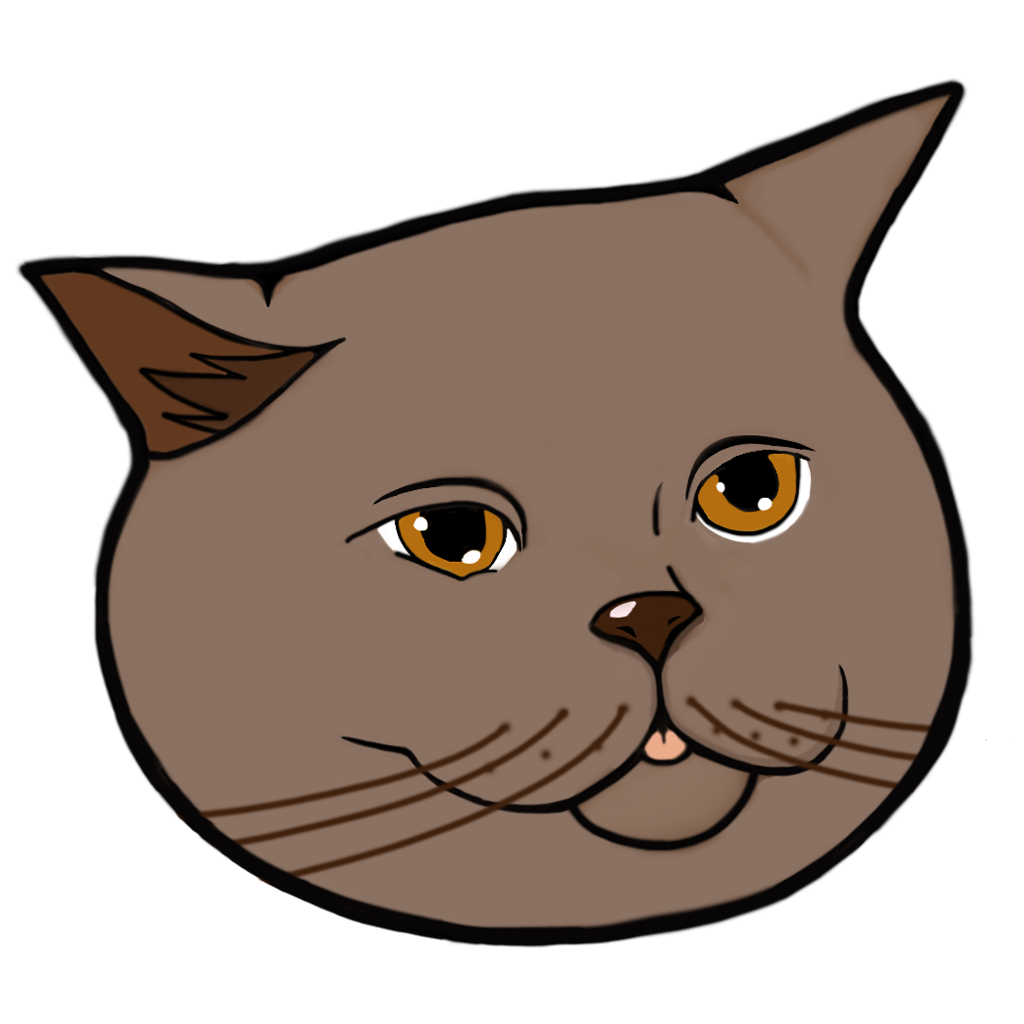
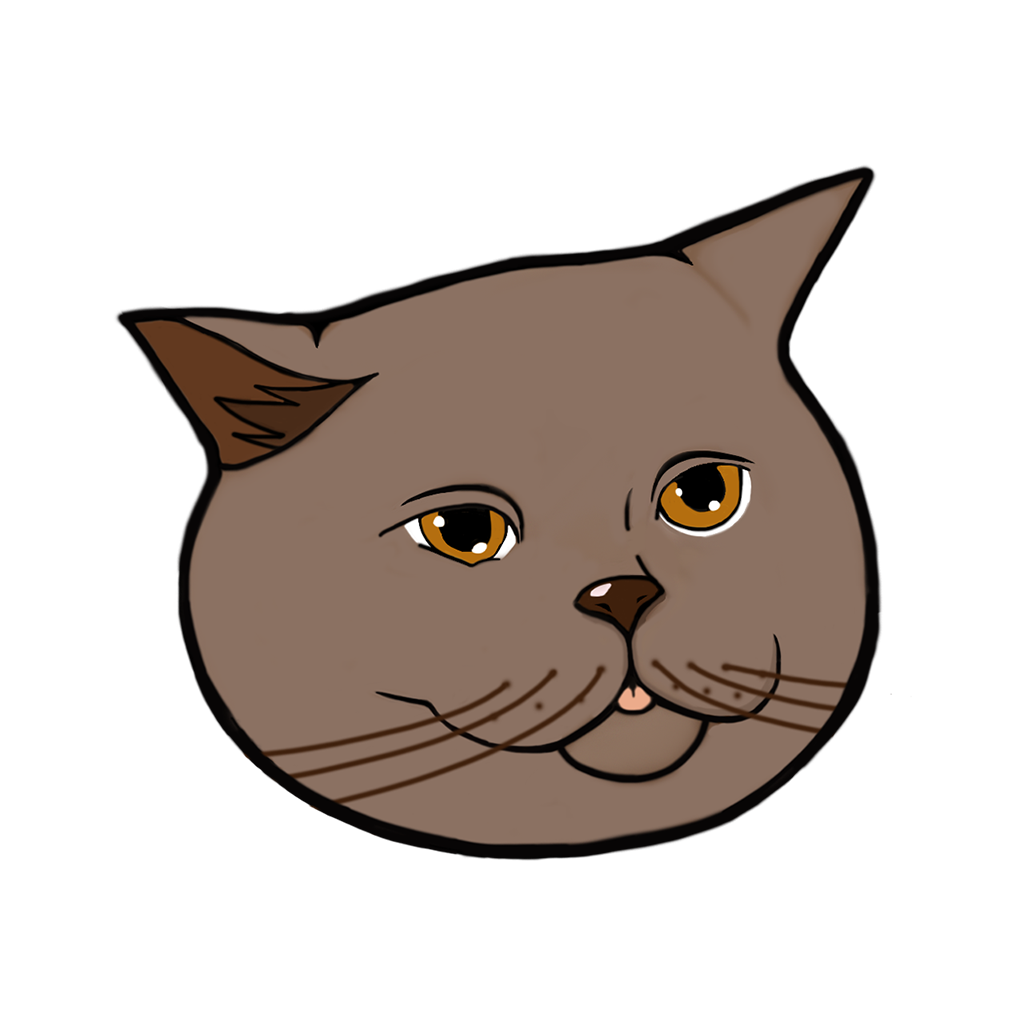
new hatss

diff --git a/script.js b/script.js
@@ -172,12 +172,13 @@ document.addEventListener('DOMContentLoaded', function () {
     // Resim URL'leri
     const images = {
         base: 'https://raw.githubusercontent.com/TimurOzer/PashketsWebsite/main/img/cat.png', // Kedi resmi
-        hats: [
-            'https://raw.githubusercontent.com/TimurOzer/PashketsWebsite/main/img/hat1.png',
-            'https://raw.githubusercontent.com/TimurOzer/PashketsWebsite/main/img/hat2.png',
-            'https://raw.githubusercontent.com/TimurOzer/PashketsWebsite/main/img/hat3.png'
-        ]
+        hats: [] // 38 şapka URL'sini buraya ekleyeceğiz
     };
+
+    // 38 şapka URL'sini otomatik oluşturma
+    for (let i = 1; i <= 38; i++) {
+        images.hats.push(`https://raw.githubusercontent.com/TimurOzer/PashketsWebsite/main/img/hat${i}.png`);
+    }
 
     const baseImage = document.getElementById('cat-image'); // Kedi resmi
     const hatImage = document.getElementById('hat-image'); // Şapka resmi
@@ -185,23 +186,23 @@ document.addEventListener('DOMContentLoaded', function () {
 
     // Başlangıçta kedi resmi yükle
     baseImage.src = images.base;
+    hatImage.src = images.hats[selectedHatIndex];
 
     // Şapka değiştirme fonksiyonu
-    function changeHat(hatIndex) {
-        selectedHatIndex = hatIndex; // Seçilen şapkayı güncelle
+    function changeHat(index) {
+        selectedHatIndex = (index + images.hats.length) % images.hats.length; // Döngüsel indeks
         hatImage.src = images.hats[selectedHatIndex]; // Şapkanın kaynağını güncelle
         hatImage.style.display = 'block'; // Şapkayı göster
     }
 
-    // Şapka seçenekleri (butonlara tıklama)
-    document.getElementById('hat1-btn').addEventListener('click', function () {
-        changeHat(0); // 1. şapka
+    // Next butonuna tıklama
+    document.getElementById('next-hat').addEventListener('click', function () {
+        changeHat(selectedHatIndex + 1); // Bir sonraki şapka
     });
-    document.getElementById('hat2-btn').addEventListener('click', function () {
-        changeHat(1); // 2. şapka
-    });
-    document.getElementById('hat3-btn').addEventListener('click', function () {
-        changeHat(2); // 3. şapka
+
+    // Previous butonuna tıklama
+    document.getElementById('prev-hat').addEventListener('click', function () {
+        changeHat(selectedHatIndex - 1); // Bir önceki şapka
     });
 
     // İndirme fonksiyonu
@@ -222,6 +223,7 @@ document.addEventListener('DOMContentLoaded', function () {
         });
     });
 });
+
 
 
 // Sayfa yüklendiğinde grafik fonksiyonunu çalıştır

diff --git a/index.html b/index.html
@@ -142,19 +142,18 @@
     <h2 class="large-text">Create Your Pashket!</h2>
     <div id="editor">
         <!-- Görüntülenen kedi resmi ve şapka -->
-        <div id="canvas-container" style="position: relative; width: 300px; height: 300px;">
-            <!-- Kedi resmi -->
-            <img id="cat-image" src="https://raw.githubusercontent.com/TimurOzer/PashketsWebsite/main/img/cat.png" alt="Cat" style="position: absolute; width: 100%; height: 100%;" crossorigin="anonymous">
-            <!-- Şapka resmi (başlangıçta gizli) -->
-            <img id="hat-image" src="" alt="Hat" style="position: absolute; width: 50%; top: 0; left: 25%; display: none;" crossorigin="anonymous">
-        </div>
+<div id="canvas-container" style="position: relative; width: 300px; height: 300px;">
+    <img id="cat-image" src="https://raw.githubusercontent.com/TimurOzer/PashketsWebsite/main/img/cat.png" alt="Cat">
+    <img id="hat-image" src="" alt="Hat">
+</div>
 
         <!-- Şapka seçenekleri -->
-        <div id="hat-options">
-            <button id="hat1-btn">Hat 1</button>
-            <button id="hat2-btn">Hat 2</button>
-            <button id="hat3-btn">Hat 3</button>
-        </div>
+
+<div id="hat-options">
+    <button id="prev-hat">Previous Hat</button>
+    <button id="next-hat">Next Hat</button>
+</div>
+
 
         <!-- İndir butonu -->
         <button id="download-button">Download Your Pashket</button>

diff --git a/styles.css b/styles.css
@@ -234,19 +234,22 @@ html {
     margin: 0 auto;
 }
 
-#cat-image,
-#hat-image {
-    position: absolute;
-    top: 0;
-    left: 0;
-    width: 100%;
-    height: 100%;
+#cat-image {
+    width: 300px;
+    height: 300px;
+    position: relative;
     z-index: 1;
 }
 
 #hat-image {
+    width: 300px; /* Kedinin genişliğine uyumlu */
+    height: 300px; /* Oranı koruyarak yüksekliği ayarla */
+    position: absolute; /* Kedinin üzerine yerleştir */
+    top: 0; /* Kediyle hizala */
+    left: 0; /* Kediyle hizala */
     z-index: 2;
 }
+
 
 #hat-options {
     text-align: center;
@@ -471,3 +474,26 @@ height: auto; /* Ensure the home section can expand based on content */
 }
  
 }
+
+#hat-options {
+    display: flex;
+    justify-content: center;
+    gap: 10px;
+    margin-top: 20px;
+}
+
+#hat-options button {
+    padding: 10px 15px;
+    background-color: #6F4E37;
+    color: #FED8B1;
+    border: none;
+    border-radius: 5px;
+    cursor: pointer;
+    transition: all 0.3s;
+}
+
+#hat-options button:hover {
+    background-color: #ECB176;
+    color: #3d3d3d;
+}
+
